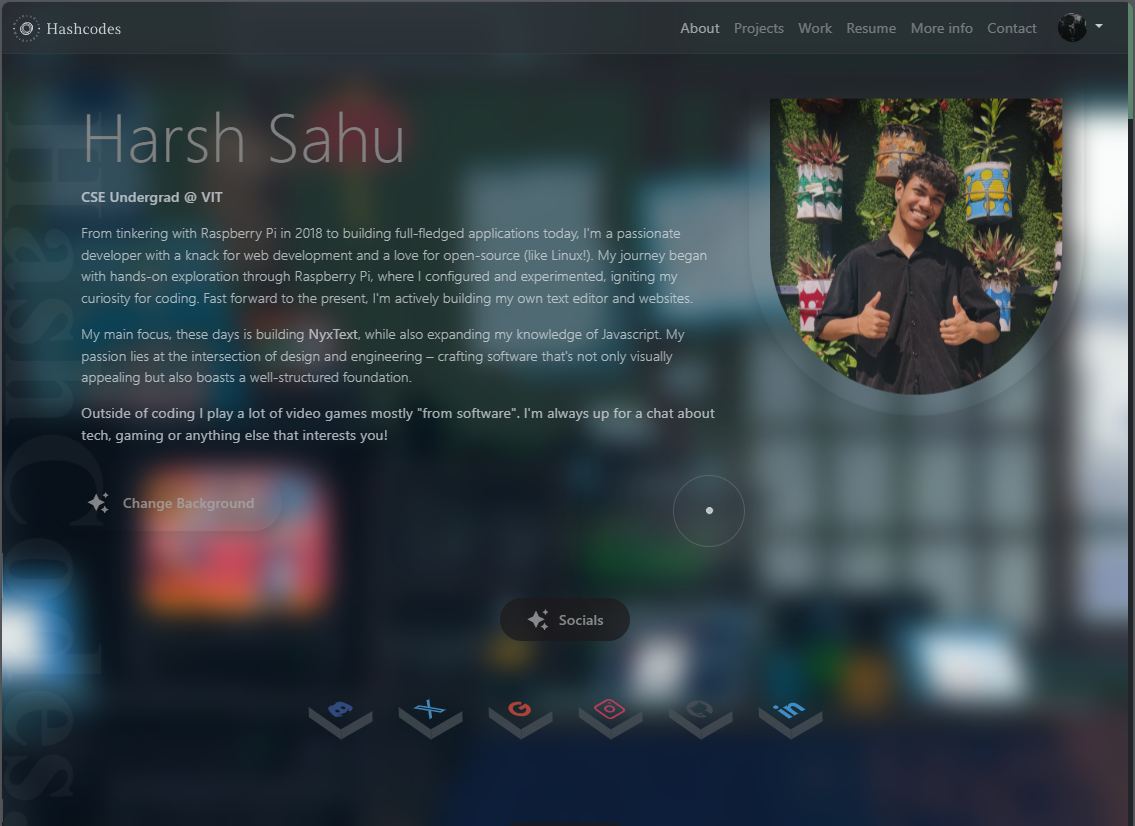
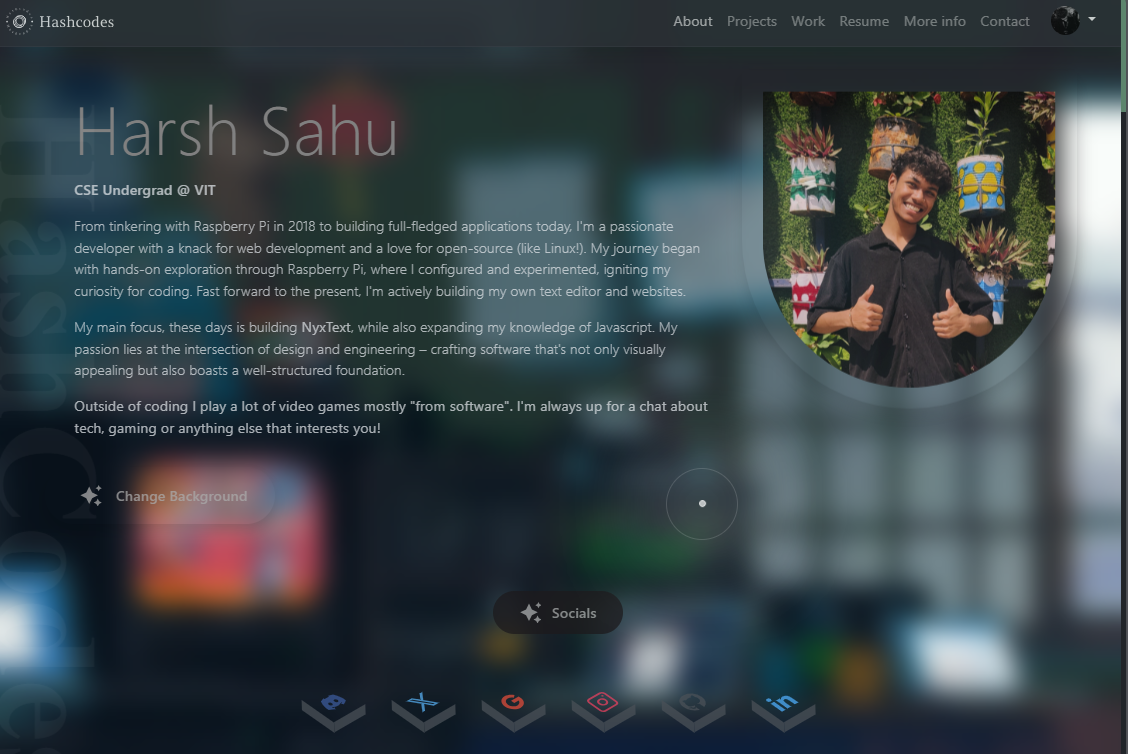
Rm unused gifs and add new screenshot

diff --git a/README.md b/README.md
@@ -5,6 +5,7 @@
 <div align="center">
 
 ## MyFolio - Personal Portfolio Website
+
 <h3><a href="https://harshsahu-portfolio.vercel.app/">harshsahu-portfolio.vercel.app</a> - v1</h3> 
 </div>
 
@@ -15,7 +16,7 @@
 
 Welcome to MyFolio! This website showcases my projects, skills, and experiences. It is designed to provide an overview of my work and help you get to know me better.
 
-![demo](resources/Projects/perfectssdosentexists.png)
+![demo](resources/Projects/hompagev2.png)
 
 ## 🌴 Progress
 
@@ -26,5 +27,7 @@ Welcome to MyFolio! This website showcases my projects, skills, and experiences.
 <div align="center">
 
 #### Under Apache 2.0 License
+
 #### &copy; 2024 Parazeeknova
+
 </div>
